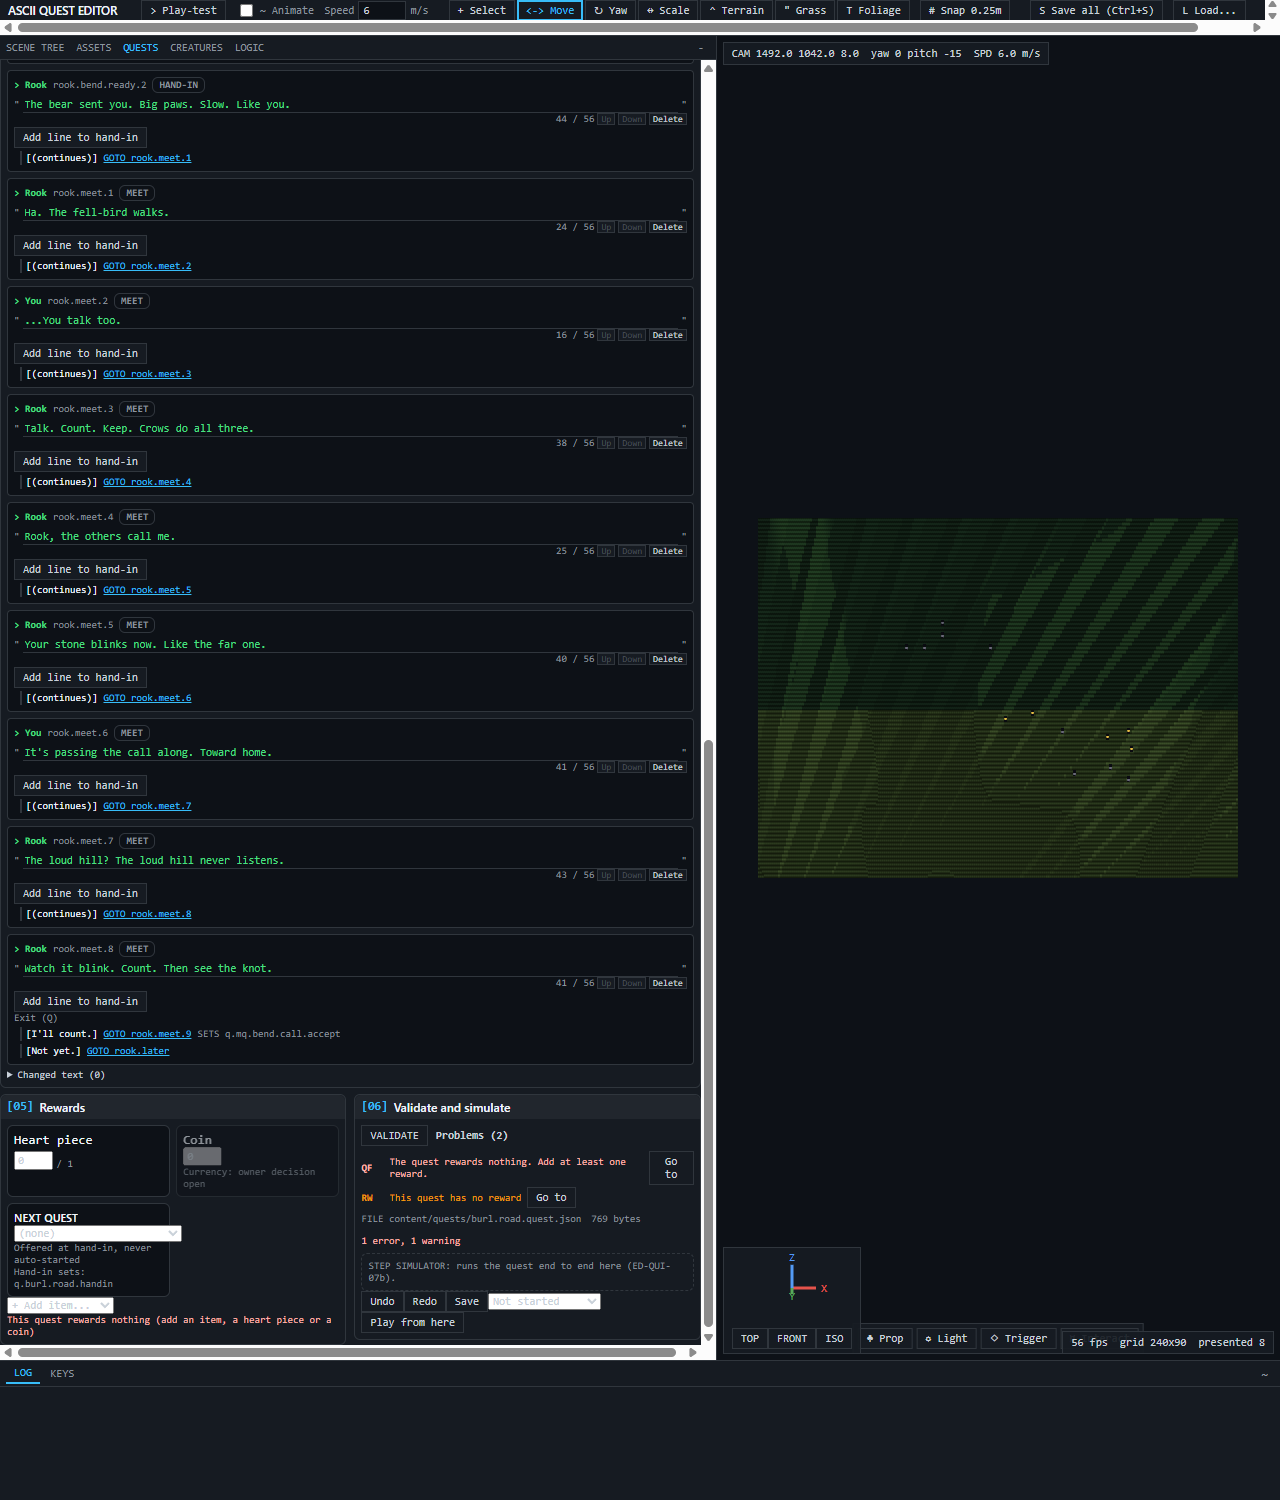
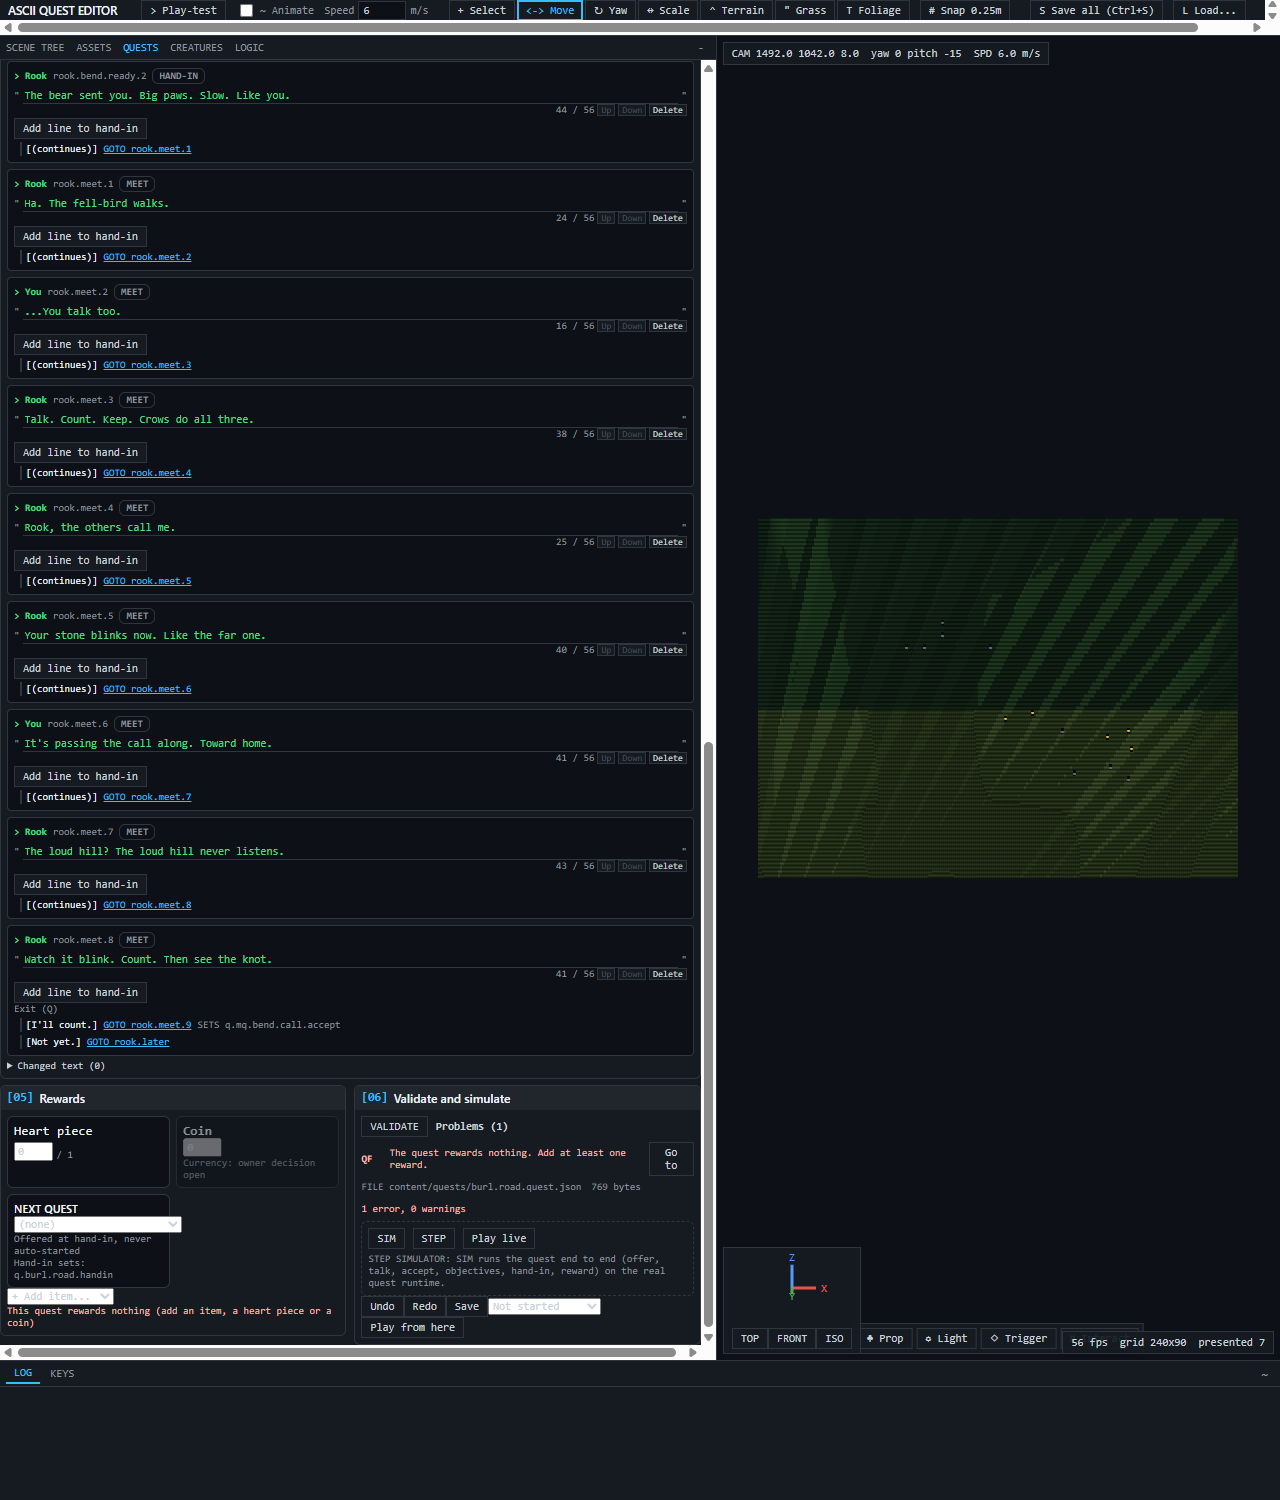
ED-QUI-07b2 (OB-214, 38.85): editor quest SIM - buildEditorBundle from fetch + open in-memory docs (parity with the Node loader on 3 quests), card [06] SIM / STEP / Play live with step rows and Go-to; check-deps rule 6 narrow allow-list (questPanel + sim.test may import questE2eRun/questBoot) - PC-A

diff --git a/tools/editor/questPanel.js b/tools/editor/questPanel.js
@@ -20,6 +20,7 @@ import { loadDialogues, saveDialogues, captureBaseline } from './quest/lines.js'
 import { conversationView } from './quest/conversation.js';
 import { rewardTiles, setRewardItems, rewardLint } from './quest/rewards.js';
 import { HEART_PIECE_ITEM } from './quest/format.js';
+import { buildEditorBundle, simSteps } from './quest/sim.js';
 
 const el = (tag, cls, text) => { const e = document.createElement(tag); if (cls) e.className = cls; if (text != null) e.textContent = text; return e; };
 
@@ -149,6 +150,45 @@ export async function mountQuestPanel(root, opts) {
     else if (t.kind === 'giver' || t.kind === 'return') { opts.onFocus && t.id && opts.onFocus(t.id); const b = detail.querySelector('[data-pick="' + t.kind + '"]'); if (b && b.focus) b.focus(); }
     else { const f = detail.querySelector(t.kind === 'reward' ? '#quest-reward' : '[data-field="' + t.id + '"] input, [data-field="' + t.id + '"] textarea') || detail.querySelector('[data-field="title"] input'); if (f && f.focus) f.focus(); }
   }
+
+  // ED-QUI-07b2: SIM = the real quest runtime (runQuestE2e) on the OPEN, unsaved documents; STEP reveals one row at a time. Warns on FAIL, never blocks Play live.
+  const simRuns = new Map();   // quest id -> { result, shown, stamp }
+  const simStamp = (q) => JSON.stringify(q.raw) + '|' + [...dm.files.values()].map((f) => JSON.stringify(f.obj)).join('');
+  const fetchText = opts.fetchText || (async (p) => { try { const r = await fetch('../../' + p); return r.ok ? r.text() : null; } catch (e) { return null; } });
+  async function runSim(q, stepwise) {
+    const { runQuestE2e } = await import('../../game/js/quest/questE2eRun.js');
+    let result;
+    try { const bundle = await buildEditorBundle({ model, dm, itemDefs, fetchText, openEntities: (getWorld() || {}).entities || [] }); result = await runQuestE2e(bundle, q.id); }
+    catch (e) { const f = { name: '0 loaded', ok: false, detail: String((e && e.message) || e) }; result = { ok: false, steps: [f], firstFail: f }; }
+    simRuns.set(q.id, { result, shown: stepwise ? 1 : Infinity, stamp: simStamp(q) });
+    if (current === q) redraw();
+    goTo({ kind: 'card', id: 'validate' });
+  }
+  function simBox(q) {
+    const box = el('div', 'q-vsim'); box.id = 'quest-sim-area';
+    const head = el('div', 'q-vhead');
+    const run1 = el('button', 'ed-btn primary', 'SIM'), step = el('button', 'ed-btn', 'STEP'), live = el('button', 'ed-btn', 'Play live');
+    run1.id = 'quest-sim-run'; step.id = 'quest-sim-step'; live.id = 'quest-sim-live';
+    run1.title = 'Run the whole quest here (real quest runtime, your unsaved edits included)'; step.title = 'Show the run one step at a time'; live.title = 'Open the game tab at this quest (Play from here)';
+    run1.addEventListener('click', () => runSim(q, false));
+    live.addEventListener('click', () => { const b = document.getElementById('quest-play'); if (b) b.click(); });
+    const r = simRuns.get(q.id);
+    step.addEventListener('click', () => { if (!r || r.shown >= r.result.steps.length) runSim(q, true); else { r.shown++; redraw(); } });
+    head.append(run1, step, live); box.append(head);
+    if (!r) { box.append(el('div', null, 'STEP SIMULATOR: SIM runs the quest end to end (offer, talk, accept, objectives, hand-in, reward) on the real quest runtime.')); return box; }
+    const rows = simSteps(r.result), stale = r.stamp !== simStamp(q);
+    const sum = el('div', 'q-simsum ' + (r.result.ok ? 'ok' : 'error'), (r.result.ok ? 'SIM PASS: ' + rows.length + ' steps' : 'SIM FAIL: ' + (r.result.firstFail ? r.result.firstFail.name + ' - ' + r.result.firstFail.detail : '')) + (stale ? ' (edited since this run - run SIM again)' : ''));
+    sum.id = 'quest-sim-sum'; box.append(sum);
+    if (!r.result.ok) box.append(el('div', 'q-vrow warn', 'This quest fails the simulation. Play live still opens, but it may not complete.'));
+    rows.slice(0, r.shown).forEach((s) => {
+      const row = el('div', 'q-vrow q-simrow ' + (s.ok ? 'ok' : 'error') + (s.first ? ' first' : '')); row.dataset.step = s.name;
+      const go = el('button', 'ed-btn', 'Go to'); go.addEventListener('click', () => goTo({ kind: 'card', id: s.card }));
+      row.append(el('span', 'rule', s.status), el('span', null, s.label + (s.detail ? ' - ' + s.detail : '') + ' '));
+      if (!s.ok) row.append(go);
+      box.append(row);
+    });
+    return box;
+  }
   // ED-QUI-07a: the whole static check of the open quest (lintQuest + format + R19 + conversation + reward), one result for the list, the footer and the strip chip
   const lintCtx = () => ({ ...buildLintCtx({ world: getWorld(), itemDefs, names, floorAt, sites, getMesh: opts.getMesh }), names });
   const validateOf = (q) => {
@@ -169,7 +209,7 @@ export async function mountQuestPanel(root, opts) {
     const foot = el('div', 'q-vfoot'); foot.id = 'quest-vfoot';
     const vd = el('span', 'verdict ' + ft.kind, ft.verdict); vd.id = 'quest-verdict';
     foot.append(el('span', null, 'FILE ' + ft.path), el('span', null, ft.bytes + ' bytes'), vd); box.append(foot);
-    const sim = el('div', 'q-vsim', 'STEP SIMULATOR: runs the quest end to end here (ED-QUI-07b).'); sim.id = 'quest-sim-area'; box.append(sim);   // placeholder for the 07b runner
+    box.append(simBox(q));   // ED-QUI-07b2: STEP SIMULATOR (runs questE2eRun on the open documents)
     return box;
   }
 
@@ -191,8 +231,8 @@ export async function mountQuestPanel(root, opts) {
     const row = el('div', 'q-strip-row');
     const sc = el('span', 'q-pill status ' + m.status.kind, m.status.label); sc.id = 'quest-status';
     row.append(el('span', 'q-pill id', 'QUEST ' + m.id), sc, el('span', 'q-pill ' + m.color, m.type === 'side' ? 'SIDE' : 'MAIN'), el('span', 'q-pill', m.region.toUpperCase()));
-    const sim = el('button', 'ed-btn primary', 'SIM'); sim.id = 'quest-sim'; sim.title = 'Play from here (live game tab)';
-    sim.addEventListener('click', () => { const b = document.getElementById('quest-play'); if (b) b.click(); });
+    const sim = el('button', 'ed-btn primary', 'SIM'); sim.id = 'quest-sim'; sim.title = 'Simulate this quest (STEP SIMULATOR, card [06])';
+    sim.addEventListener('click', () => runSim(q, false));
     const wb = el('button', 'ed-btn', wide ? 'NARROW' : 'WIDE'); wb.id = 'quest-wide'; wb.title = 'Toggle the wide quest panel';
     wb.addEventListener('click', () => { wide = !wide; applyWide(); redraw(); });
     row.append(nb, sim, wb);

diff --git a/tools/editor/quest/sim.js b/tools/editor/quest/sim.js
@@ -1,0 +1,98 @@
+// ED-QUI-07b2 (architecture 38.85): the quest simulator's editor side. buildEditorBundle builds the content bundle that
+// game/js/quest/questE2eRun.js (runQuestE2e) takes - the same shape tools/quest-e2e-content.mjs builds from disk - from fetch plus the
+// editor's OPEN in-memory documents (unsaved quest text + dialogue lines, the same text liveSend sends). simSteps is the pure view model.
+// Browser-safe: no node:*; fetch is injected as fetchText(repoRelativePath) -> text | null (null = 404, ignored when optional).
+import { fileText } from './model.js';
+import { dialogueText } from './lines.js';
+
+const QDIR = 'content/quests/';
+
+/** '../content/quests/../items/x.json' -> 'content/items/x.json' (what the page's fetch must ask for, repo-relative). */
+export function normPath(u) {
+  const out = [];
+  for (const s of String(u).split('/')) {
+    if (s === '' || s === '.') continue;
+    if (s === '..') { if (out.length && out[out.length - 1] !== '..') out.pop(); } else out.push(s);
+  }
+  return out.join('/');
+}
+
+/**
+ * @param {{ model, dm, itemDefs, fetchText:(p:string)=>Promise<string|null>, openEntities?: object[] }} ctx
+ *   model = loadQuests model (open quest files), dm = loadDialogues model (open dialogue files), openEntities = entities of the world open in the editor.
+ * @returns {Promise<{fetchJson, raws, snip, itemDefs, areaIds:Set, entDlg}>}
+ */
+export async function buildEditorBundle({ model, dm, itemDefs, fetchText, openEntities = [] }) {
+  // quest-folder files from the open model: legacy quests, packs, sites, areas (unsaved edits included)
+  const overlay = new Map();
+  for (const [name, f] of model.files) overlay.set(QDIR + name, fileText(f));
+  const cache = new Map();
+  const need = async (p, optional) => {
+    if (cache.has(p)) return cache.get(p);
+    const t = await fetchText(p);
+    if (t == null && !optional) throw new Error(p + ' not found');
+    cache.set(p, t); return t;
+  };
+  // pre-fetch every non-overlay file the quest loader may ask for, so fetchJson itself stays synchronous
+  const want = [QDIR + 'index.json', QDIR + 'rewards.json', QDIR + 'm1.quest.json', 'content/dialogue/bear.barks.json', 'content/chargen/human.charkit.json', 'content/items/sources.json'];
+  for (const p of want) if (!overlay.has(p)) await need(p, true);
+  const idxText = overlay.has(QDIR + 'index.json') ? overlay.get(QDIR + 'index.json') : cache.get(QDIR + 'index.json');
+  if (idxText) {
+    try {
+      const idx = JSON.parse(idxText);
+      for (const n of idx.legacy || []) { const p = QDIR + n + '.quest.json'; if (!overlay.has(p)) await need(p, true); }
+      for (const r of idx.packs || []) { const p = QDIR + r + '/pack.json'; if (!overlay.has(p)) await need(p, true); }
+    } catch (e) { /* a bad index: the runner reports it */ }
+  }
+  const fetchJson = (u) => {
+    const p = normPath(u);
+    const text = overlay.has(p) ? overlay.get(p) : cache.get(p);
+    if (text == null) throw new Error(p + ' not found');
+    return JSON.parse(text);
+  };
+
+  const raws = {};
+  for (const [name, f] of dm.files) {
+    let t = null; try { t = dialogueText(f); } catch (e) { t = null; }
+    raws[name.replace(/\.dialogue\.json$/, '')] = t != null ? JSON.parse(t) : JSON.parse(JSON.stringify(f.obj));
+  }
+  const snip = JSON.parse(await need('content/dialogue/quest-snippets.json'));
+  const areasF = model.files.get('areas.json');
+  const areaIds = new Set(Object.keys((areasF && areasF.obj.areas) || {}));
+
+  // world entity id -> dialogue id, as the game wires it: every world file in the manifest, then the git-ignored overlay
+  const entDlg = {};
+  const addEnt = (e) => { const c = e && e.components && e.components.dialogue; if (e && e.id && c) entDlg[e.id] = typeof c === 'string' ? c : c.id; };
+  let worlds = ['worlds/world_m1.world.json'];
+  try {
+    const man = JSON.parse(await need('content/manifest.json'));
+    const w = Object.values(man).flat().filter((x) => typeof x === 'string' && /^worlds\/[^/]+\.world\.json$/.test(x) && x !== 'worlds/waterfall_test.world.json');
+    if (w.length) worlds = w;
+  } catch (e) { /* default list */ }
+  for (const w of worlds) { const t = await need('content/' + w, true); if (t) for (const e of JSON.parse(t).entities || []) addEnt(e); }
+  const lp = await need('content/local/placements.json', true);
+  if (lp) { try { const ov = JSON.parse(lp); for (const e of Array.isArray(ov) ? ov : ov.entities || []) addEnt(e); } catch (e) { /* unreadable overlay: ignored */ } }
+  for (const e of openEntities) addEnt(e);   // the world open in the editor (unsaved placements)
+  return { fetchJson, raws, snip, itemDefs: itemDefs || {}, areaIds, entDlg };
+}
+
+/** Editor card a step belongs to (data-card id), for the "Go to" button. */
+export function stepCard(name) {
+  const n = String(name || '').replace(/^\d+\s+/, '');
+  if (/^offered-only|requires/.test(n)) return 'prereq';
+  if (/^(giver-character|mark-offer|mark-ready|marks-gone)/.test(n)) return 'spatial';
+  if (/^(talk-offer|exit-keeps|accept|handin-talk)/.test(n)) return 'conversation';
+  if (/^objectives/.test(n)) return 'objectives';
+  if (/^reward/.test(n)) return 'rewards';
+  if (/^main-handoff/.test(n)) return 'prereq';
+  return 'validate';
+}
+
+/** result of runQuestE2e -> rows for the card: { name, label, ok, status, detail, card, first }. */
+export function simSteps(result) {
+  const ff = result && result.firstFail ? result.firstFail.name : null;
+  return ((result && result.steps) || []).map((s) => ({
+    name: s.name, label: String(s.name).replace(/^\d+\s+/, '').replace(/-/g, ' '), ok: !!s.ok, status: s.ok ? 'PASS' : 'FAIL',
+    detail: s.detail || '', card: stepCard(s.name), first: !s.ok && s.name === ff,
+  }));
+}

diff --git a/tools/editor/index.html b/tools/editor/index.html
@@ -204,6 +204,7 @@
     .q-vhead { display: flex; gap: 8px; align-items: center; margin-bottom: 4px; } .q-vfoot { display: flex; flex-wrap: wrap; gap: 10px; margin-top: 4px; font: 10px var(--ed-font-mono); color: var(--ed-fg-dim); }
     .q-vfoot .verdict.ok { color: var(--ed-green); } .q-vfoot .verdict.warn { color: var(--ed-amber); } .q-vfoot .verdict.error { color: var(--ed-red); }
     .q-vrow { display: flex; gap: 6px; align-items: center; padding: 1px 0; font-size: 10px; } .q-vrow.error { color: var(--ed-red); } .q-vrow.warn { color: var(--ed-amber); } .q-vrow .rule { font-weight: 700; min-width: 2.2em; }
+    .q-simrow.ok .rule { color: #6c6; } .q-simrow.first { font-weight: 700; background: rgba(255,80,80,.12); } .q-simsum { margin: 4px 0; font-weight: 700; } .q-simsum.ok { color: #6c6; } .q-simsum.error { color: var(--ed-red); }
     .q-vsim { margin-top: 6px; padding: 6px; border: 1px dashed var(--ed-line); border-radius: 6px; color: var(--ed-fg-dim); font-size: 10px; }
 
     /* US-067: Assets tab list */

diff --git a/docs/lanes/pc-b1.md b/docs/lanes/pc-b1.md
@@ -1882,3 +1882,5 @@ Before/after teaser t=0: docs/test-reports/ob213-falls-before.png / ob213-falls-
   Tests: water/waterfall/cinematic 18/18, check-deps OK, gpucompare vs rtx4060 baseline: only signal tower + decorFord (known). Sheets + `-before-sheet` in docs/test-reports/teaser. Open: forest floor under dense stand near-black; lake mirrors grey cliffs (QA-02). Status: QA-01 po-review, QA-03 arch-review.
 - ED-QUI-07b1 QUEST SIM CORE (OB-214, kestrel-3, uncommitted, po-review): e2e step chain moved to game/js/quest/questE2eRun.js (createQuestE2e shared run + runQuestE2e(bundle,id) -> {ok, steps:[{name,ok,detail}], firstFail}; async, fresh runtime, no node:*/tools/ imports, no ASSETS writes); tools/quest-e2e-content.mjs = disk bundle loader (+ content/local/placements.json entities); allQuests.e2e = loader + runner, table byte-identical (also on a 2-area-removed broken copy, 6 FAIL rows equal).
   CLI `node tools/quest-sim.mjs --quest <id> [--json] [--root dir]`: burl.road exit 0 (14 steps), fixture without bendRelay exit 1 "FAIL at 5 objectives". Tests: questE2eRun.test.js (import-graph guard, repeatable, broken bundles), tools/quest-sim-cli.test.mjs. Note: step shape {name,ok,detail} per the 07b1 prompt (38.85 text says {id,label,ok,reason}); 07b2 maps labels.
+- ED-QUI-07b2 QUEST SIM IN EDITOR (OB-214, kestrel-3, uncommitted, po-review): tools/editor/quest/sim.js `buildEditorBundle` (fetch + open quest/dialogue docs + manifest worlds + content/local/placements.json + open world entities) and pure `simSteps`/`stepCard`; sim.test.mjs parity vs Node loader (raws, entDlg, areas, giverDefs, steps for burl.road/sq.burl.blue/burl.boars; unsaved edit changes the sim). Card [06]: SIM / STEP / Play live, rows green/red, firstFail highlighted + Go to card, FAIL warns but Play live stays enabled; strip SIM = same run. verify-edqui-05.mjs: burl.road 14/14 PASS -> docs/test-reports/edqui-07b.png.
+  check-deps rule 6 got a narrow allow-list (questPanel.js + sim.test.mjs may import game questE2eRun.js / questBoot.js) - architect please ratify.
